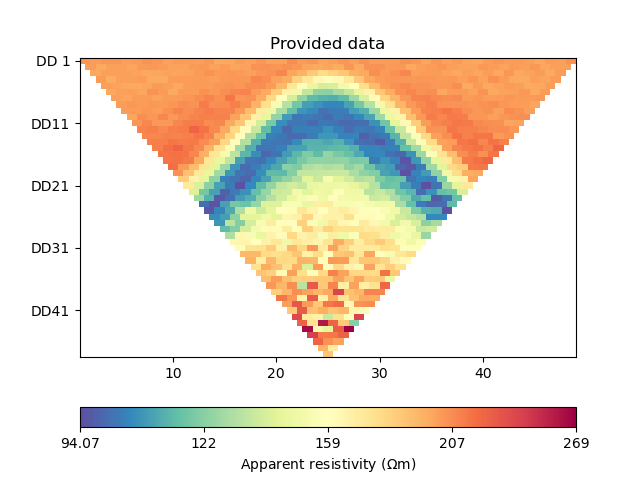
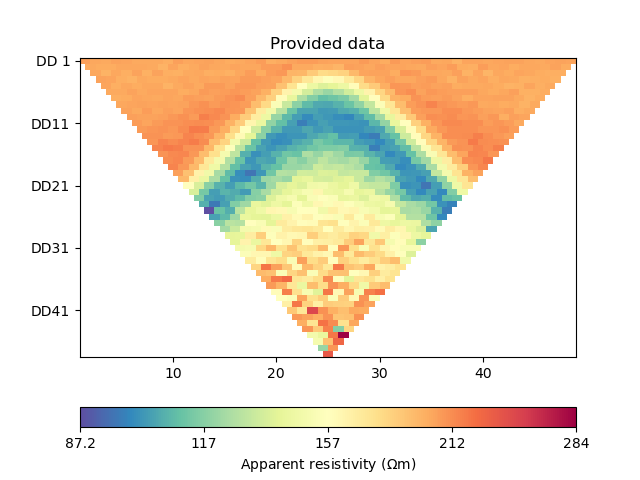
feat: progress (changed seed)

diff --git a/notebooks/pygimli_ert/pygimli_ert_gauss_newton_armijo_linesearch.py b/notebooks/pygimli_ert/pygimli_ert_gauss_newton_armijo_linesearch.py
@@ -129,8 +129,7 @@ class GaussNewtonArmjioLineaSearch(BaseSolver):
 
 
 # hyperparameters
-lamda = 0.0005
-niter = 50
+lamda = 0.001
 inv_verbose = True
 step = 2
 
@@ -149,7 +148,7 @@ ert_problem.set_initial_model(start_model)
 # CoFI - define InversionOptions
 inv_options = InversionOptions()
 inv_options.set_tool(GaussNewtonArmjioLineaSearch)
-inv_options.set_params(niter=niter, verbose=inv_verbose, step=step)
+inv_options.set_params(verbose=inv_verbose, step=step)
 
 # CoFI - define Inversion, run it
 inv = Inversion(ert_problem, inv_options)

diff --git a/notebooks/pygimli_ert/pygimli_ert_lib.py b/notebooks/pygimli_ert/pygimli_ert_lib.py
@@ -34,7 +34,7 @@ def model_true(scheme, start=[-55, 0], end=[105, -80], anomaly_pos=[10,-7], anom
 # generate synthetic data
 def ert_simulate(mesh, scheme, rhomap, noise_level=1, noise_abs=1e-6):
     data = ert.simulate(mesh, scheme=scheme, res=rhomap, noiseLevel=noise_level,
-                        noise_abs=noise_abs, seed=42)
+                        noise_abs=noise_abs, seed=23)
     data.remove(data["rhoa"] < 0)
     log_data = np.log(data["rhoa"].array())
     data_err = data["rhoa"] * data["err"]
